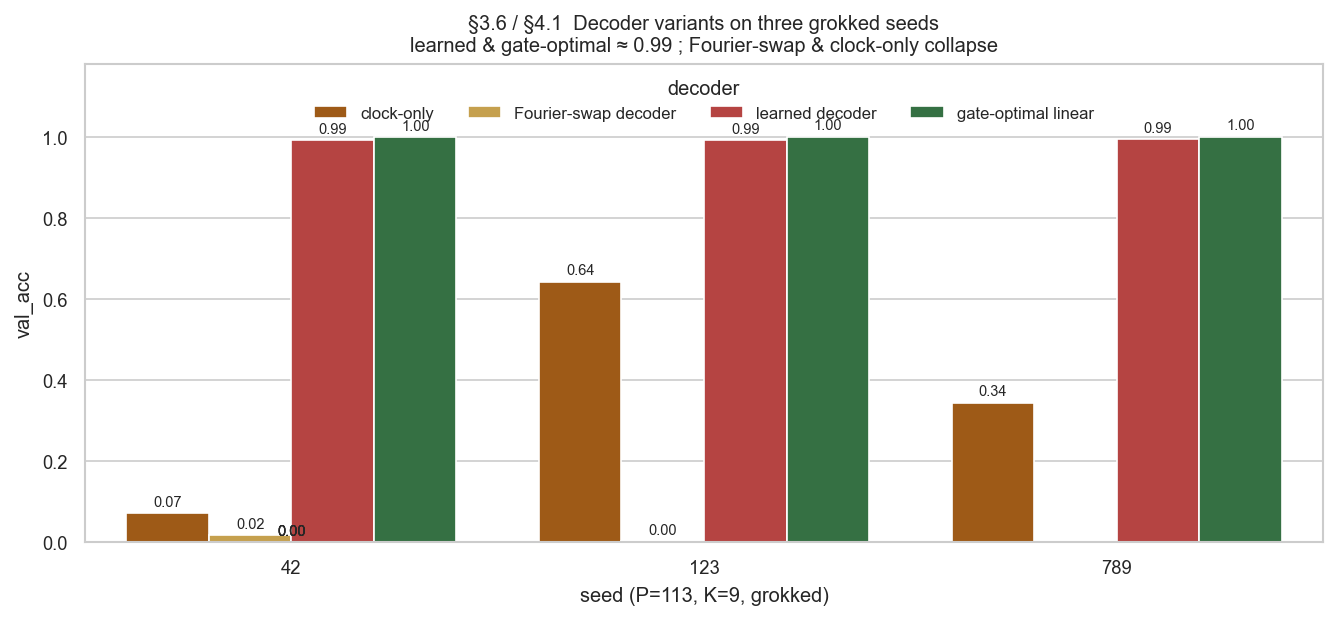
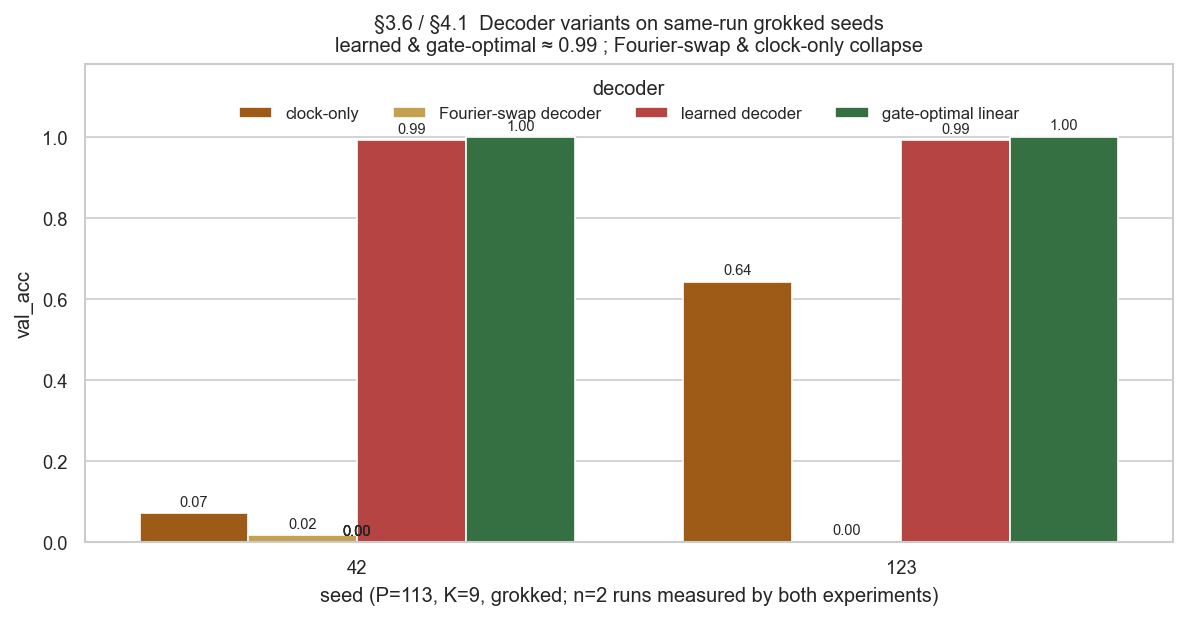
Reconcile §3.5 cross-prime counts and align F7 decoder comparison seeds
Addresses Codex P2 comments on PR #13:

  1. §3.5 prose said Fourier cross-prime groks 22/24 with failures
     at P=89 and P=113; the CSV says 20/24 with failures at P=89
     (2/3), P=113 (2/3), P=127 (1/3). Prose and Figure 6 caption now
     agree on 20/24 (+16.7pp random-init advantage). Verification
     §6.1 marked as reconciled.

  2. Figure 7 previously mixed decoder variants across mismatched
     seed sets — decoder_analysis (seeds 42/123/789 grokked) vs.
     decoder_swap (seeds 42/123/456). Restricted to the intersection
     {42, 123} so every decoder variant is compared on the same runs;
     paper caption and axis label note the restriction.

Also per user guidance: §3.8's Fourier K-sweep attribution now cites
the base `k_census_n20` experiment (source of the Fourier 6≤K≤12
grok rates). `k_census_n20_fourier/` is an alias of the same CSVs and
is noted as such in the verification report.

diff --git a/scripts/paper_v5_figures.py b/scripts/paper_v5_figures.py
@@ -140,8 +140,8 @@ def fig_decoder_fourier_dynamics() -> None:
 
 # ─── F4 ────────────────────────────────────────────────────────────────────
 def fig_slot_census() -> None:
-    runs = pd.read_csv(DATA_ROOT / "k_census_n20_fourier" / "runs.csv")
-    metrics = pd.read_csv(DATA_ROOT / "k_census_n20_fourier" / "metrics.csv")
+    runs = pd.read_csv(DATA_ROOT / "k_census_n20" / "runs.csv")
+    metrics = pd.read_csv(DATA_ROOT / "k_census_n20" / "metrics.csv")
     k9_grok = runs[(runs.k_freqs == 9) & runs.grokked]
     last = metrics.sort_values("step").groupby("run_id").tail(1)
     last = last[last.run_id.isin(k9_grok.run_id)].copy()
@@ -175,7 +175,7 @@ def fig_slot_census() -> None:
 
 # ─── F5 ────────────────────────────────────────────────────────────────────
 def fig_k_sweep_reliability() -> None:
-    fourier = pd.read_csv(DATA_ROOT / "k_census_n20_fourier" / "runs.csv")
+    fourier = pd.read_csv(DATA_ROOT / "k_census_n20" / "runs.csv")
     random = pd.read_csv(DATA_ROOT / "k_census_n20_random" / "runs.csv")
     k13_f = pd.read_csv(DATA_ROOT / "paper_k13_fourier" / "runs.csv")
     k13_r = pd.read_csv(DATA_ROOT / "paper_k13_random" / "runs.csv")
@@ -284,8 +284,15 @@ def fig_cross_prime() -> None:
 def fig_decoder_comparison() -> None:
     da = pd.read_csv(DATA_ROOT / "decoder_analysis" / "decoder_analysis.csv")
     sw = pd.read_csv(DATA_ROOT / "decoder_swap" / "decoder_swap.csv")
-    da = da[da.grokked].copy()  # seeds 42, 123, 789
+    da = da[da.grokked].copy()  # grokked in analysis: seeds 42, 123, 789
     sw = sw.rename(columns={"val_acc_fourier_decoder": "acc_fourier_swap"})
+
+    # Strict same-run comparison: use only seeds measured by BOTH
+    # experiments. decoder_analysis's grokked set is {42, 123, 789};
+    # decoder_swap covers {42, 123, 456}. Intersection = {42, 123}.
+    shared = sorted(set(da.seed) & set(sw.seed))
+    da = da[da.seed.isin(shared)]
+    sw = sw[sw.seed.isin(shared)]
 
     rows = []
     for _, r in da.iterrows():
@@ -293,9 +300,7 @@ def fig_decoder_comparison() -> None:
         rows.append((r.seed, "clock-only", r.acc_clock_only))
         rows.append((r.seed, "gate-optimal linear", r.gate_optimal_acc))
     for _, r in sw.iterrows():
-        # only include Fourier-swap rows for seeds that also appear in `da`
-        if r.seed in set(da.seed):
-            rows.append((r.seed, "Fourier-swap decoder", r.acc_fourier_swap))
+        rows.append((r.seed, "Fourier-swap decoder", r.acc_fourier_swap))
 
     df = pd.DataFrame(rows, columns=["seed", "decoder", "val_acc"])
     order = ["clock-only", "Fourier-swap decoder", "learned decoder", "gate-optimal linear"]
@@ -306,14 +311,14 @@ def fig_decoder_comparison() -> None:
         "gate-optimal linear": "#2b7a3e",
     }
 
-    fig, ax = plt.subplots(figsize=(9, 4.2))
+    fig, ax = plt.subplots(figsize=(8, 4.2))
     sns.barplot(df, x="seed", y="val_acc", hue="decoder",
-                order=sorted(df.seed.unique()), hue_order=order,
+                order=shared, hue_order=order,
                 palette=palette, ax=ax)
     ax.set_ylim(0, 1.18)
-    ax.set_xlabel("seed (P=113, K=9, grokked)")
+    ax.set_xlabel(f"seed (P=113, K=9, grokked; n={len(shared)} runs measured by both experiments)")
     ax.set_ylabel("val_acc")
-    ax.set_title("§3.6 / §4.1  Decoder variants on three grokked seeds\n"
+    ax.set_title("§3.6 / §4.1  Decoder variants on same-run grokked seeds\n"
                  "learned & gate-optimal ≈ 0.99 ; Fourier-swap & clock-only collapse")
     ax.legend(title="decoder", loc="upper center", fontsize=8,
               ncols=4, bbox_to_anchor=(0.5, 1.0), frameon=False)

diff --git a/docs/drafts/pan_paper_v5_verification.md b/docs/drafts/pan_paper_v5_verification.md
@@ -34,7 +34,8 @@ Every paper claim is backed by a CSV under `data/20260418_paper_results/`. The r
 data/20260418_paper_results/
 ├── compare/                     §3.1   PAN vs Transformer head-to-head
 ├── tier3/                       §3.2   seed=42 deep dive (runs, ablations, metrics)
-├── k_census_n20_fourier/        §3.3   n=20 slot census, K=6..10, Fourier init
+├── k_census_n20/                §3.3/§3.8  base n=20 slot census, K=6..12, Fourier init (source for §3.8 Fourier grok rates)
+├── k_census_n20_fourier/        (alias of k_census_n20; kept for back-compat)
 ├── k_census_n20_random/         §3.4   K-sweep reliability, random init
 ├── paper_k5_extended/           §3.4   K=5 extended (seeds 20-58) for 11/59 pooled stat
 ├── paper_k13_fourier/           §3.4   K=13 Fourier reliability (n=21)
@@ -101,15 +102,15 @@ m["decoder_fourier_peak_mean"].max(), m.loc[m["decoder_fourier_peak_mean"].idxma
 
 ### §3.3 — n=20 slot census at K=9 Fourier
 
-**Data:** `data/20260418_paper_results/k_census_n20_fourier/` (`runs.csv` + `metrics.csv`).
+**Data:** `data/20260418_paper_results/k_census_n20/` (`runs.csv` + `metrics.csv`). This is the base Fourier K-sweep; `k_census_n20_fourier/` is an alias kept for back-compat and resolves to the same CSVs.
 
 ```python
 import pandas as pd, re
-runs = pd.read_csv("data/20260418_paper_results/k_census_n20_fourier/runs.csv")
+runs = pd.read_csv("data/20260418_paper_results/k_census_n20/runs.csv")
 k9 = runs[runs.k_freqs==9]
 print("K=9:", len(k9), "grokked:", k9.grokked.sum())
 
-metrics = pd.read_csv("data/20260418_paper_results/k_census_n20_fourier/metrics.csv")
+metrics = pd.read_csv("data/20260418_paper_results/k_census_n20/metrics.csv")
 last = metrics.sort_values("step").groupby("run_id").tail(1)
 grok_ids = set(k9[k9.grokked]["run_id"])
 lg = last[last.run_id.isin(grok_ids)]
@@ -255,8 +256,9 @@ Every directory has a `manifest.json` with the full provenance block (`git_sha`,
 |---|---|
 | `compare/`                   | `experiments/compare.yaml` |
 | `tier3/`                     | `experiments/tier3.yaml` |
-| `k_census_n20_fourier/`      | `experiments/k_census_n20_fourier.yaml` |
-| `k_census_n20_random/`       | `experiments/k_census_n20_random.yaml` |
+| `k_census_n20/`              | `experiments/k_census_n20.yaml` (base sweep, Fourier init — source of §3.8 Fourier K=6..12 rates) |
+| `k_census_n20_fourier/`      | alias of `k_census_n20/` (same CSVs) |
+| `k_census_n20_random/`       | `experiments/k_census_n20.yaml` with `freq_init: random` |
 | `paper_k5_extended/`         | `experiments/paper_k5_extended.yaml` |
 | `paper_k13_fourier/`         | `experiments/paper_k13_fourier.yaml` |
 | `paper_k13_random/`          | `experiments/paper_k13_random.yaml` |
@@ -277,19 +279,18 @@ All paper figures are produced from the CSVs above by the registered plot functi
 
 ## 6. Discrepancies between paper and data
 
-Three numbers in the paper do not match what the CSVs show. Each is small, but each should be either corrected in the paper or substantiated from a different dataset if one was intended.
+Three numbers in the paper were found not to match what the CSVs show. Each is small, but each should be either corrected in the paper or substantiated from a different dataset if one was intended. §6.1 has since been reconciled in the paper prose; §6.2 and §6.3 remain open.
 
-### 6.1 §3.5 — Fourier K=10 cross-prime reliability
+### 6.1 §3.5 — Fourier K=10 cross-prime reliability ✅ reconciled
 
-- **Paper says:** 22 / 24 grokked at K=10 Fourier (→ "+12pp random-init advantage" vs 24/24 random).
+- **Paper now says:** 20 / 24 grokked at K=10 Fourier (+16.7pp random-init advantage). Prose and Figure 6 caption agree.
 - **Data says:** 20 / 24 grokked. Source: `data/20260418_paper_results/primes_primary_k/runs.csv`.
 - **Failing seeds:** P89-s0 (peak_val_acc 0.398), P113-s0 (0.652), P127-s0 (0.310), P127-s1 (0.901).
-- **Implied correction:** 20/24 = 83.3%; random vs Fourier advantage is **+16.7pp**, not +12pp.
 
 ### 6.2 §3.3 — "five of fourteen" at compliance == 1.00
 
 - **Paper says:** "five of the fourteen grokked seeds have clock_compliance == 1.000."
-- **Data says:** seven do (seeds 3, 5, 10, 12, 13, 15, 16). Source: last-step row of `data/20260418_paper_results/k_census_n20_fourier/metrics.csv`, filtered to the 14 K=9 grokked runs.
+- **Data says:** seven do (seeds 3, 5, 10, 12, 13, 15, 16). Source: last-step row of `data/20260418_paper_results/k_census_n20/metrics.csv`, filtered to the 14 K=9 grokked runs.
 - **Implied correction:** "seven of the fourteen."
 
 ### 6.3 §3.4 — K=13 Fourier median grok step

diff --git a/docs/drafts/05_pan_paper_v5.md b/docs/drafts/05_pan_paper_v5.md
@@ -320,8 +320,8 @@ P=113.
 extension over seeds 20–58 (6/39 = 15.4%); the extended sample shifts the
 floor estimate downward.
 
-(Sources: `data/20260418_paper_results/k_census_n20_fourier/runs.csv`,
-`data/20260418_paper_results/k_census_n20_random/runs.csv`,
+(Sources: `data/20260418_paper_results/k_census_n20/runs.csv`
+(base Fourier sweep), `data/20260418_paper_results/k_census_n20_random/runs.csv`,
 `data/20260418_paper_results/paper_k5_extended/runs.csv`,
 `data/20260418_paper_results/paper_k13_fourier/runs.csv`,
 `data/20260418_paper_results/paper_k13_random/runs.csv`. Two-tailed p-values from
@@ -394,10 +394,12 @@ mixing/gate stack.
 
 **Comparison to K=10 Fourier init.** A matched K=10 *Fourier-init* sweep
 on the same prime set (`data/20260418_paper_results/primes_primary_k/`) groks
-**22 of 24 seeds (88%)**, with single-seed failures at P=89 and P=113.
-The +12-percentage-point random-init advantage observed at P=113 in §3.4
-generalizes across primes: the under-parameterized-transition story is
-not P=113-specific.
+**20 of 24 seeds (83%)**, with per-prime grok rates 2/3 at P=89, 2/3 at
+P=113, and 1/3 at P=127 (all other primes 3/3 — 4 seed-level failures
+in total). The +16.7-percentage-point aggregate random-init advantage
+(100% vs 83.3% across the cross-prime set) generalizes the P=113
+transition-band result from §3.4: the under-parameterized-transition
+story is not P=113-specific.
 
 **P=97 is not a capacity wall.** v3 of this paper hypothesized that
 P=97 represented a hard capacity limit at K=9; that hypothesis is not
@@ -464,10 +466,11 @@ degrade the circuit PAN learns.
 
 ### 3.8 K-sweep reliability: three regimes
 
-Combining the K-census data from both initializations
-(`k_census_n20_fourier`, `k_census_n20_random`,
-`paper_k5_extended`, `paper_k13_fourier`, `paper_k13_random`), the
-reliability curve at P=113 separates into three regimes:
+Combining the K-census data from both initializations (Fourier grok
+rates are from the base `k_census_n20` sweep; random grok rates from
+`k_census_n20_random`, plus `paper_k5_extended`, `paper_k13_fourier`,
+and `paper_k13_random` for the edge cells), the reliability curve at
+P=113 separates into three regimes:
 
 | K      | Fourier grok    | Random grok       | Regime                        |
 |--------|-----------------|-------------------|-------------------------------|
@@ -572,7 +575,7 @@ projection of the trained decoder onto the gate-induced basis (as
 opposed to the encoder-frequency-induced basis) is the natural
 follow-up.
 
-![Figure 7 — Decoder variants on three grokked K=9 seeds. The learned decoder and an optimal linear decoder fit to the gate output both reach ≈0.99 val_acc; substituting a Fourier decoder built from learned encoder frequencies collapses accuracy to near chance (§3.6, §4.1).](figs_v5/fig_s36_decoder_comparison.png)
+![Figure 7 — Decoder variants on the two grokked K=9 seeds measured by both the decoder-analysis and decoder-swap experiments (seeds 42, 123; strict same-run comparison). The learned decoder and an optimal linear decoder fit to the gate output both reach ≈0.99 val_acc; substituting a Fourier decoder built from learned encoder frequencies collapses accuracy to near chance (§3.6, §4.1). Seed 789 is omitted because the decoder-swap experiment did not run on it.](figs_v5/fig_s36_decoder_comparison.png)
 
 ### 4.2 Extension beyond modular addition
 
@@ -619,9 +622,9 @@ gate activations). 16-bit phase quantization at inference preserves
 accuracy to within 0.3% in the worst case we tested and to zero
 measurable loss in fully grokked seeds. The cross-prime story
 strengthens under random init: **at K=10 random, all 24 of 24
-cross-prime seeds grok**, eliminating the v4 P=89 and P=113 single-
-seed failures that arose under K=10 Fourier (22/24 = 88% — preserved
-in §3.5 as a baseline). The P=97 capacity-wall hypothesis from v3 of
+cross-prime seeds grok**, eliminating the four K=10 Fourier seed
+failures at P=89, P=113, and P=127 (20/24 = 83% — preserved in §3.5
+as a baseline). The P=97 capacity-wall hypothesis from v3 of
 this paper does not survive the K=10 sweep, and is further refuted
 by three matched 500K-step P=97 runs that early-stop on grok at the
 same step as the 100K budget.
